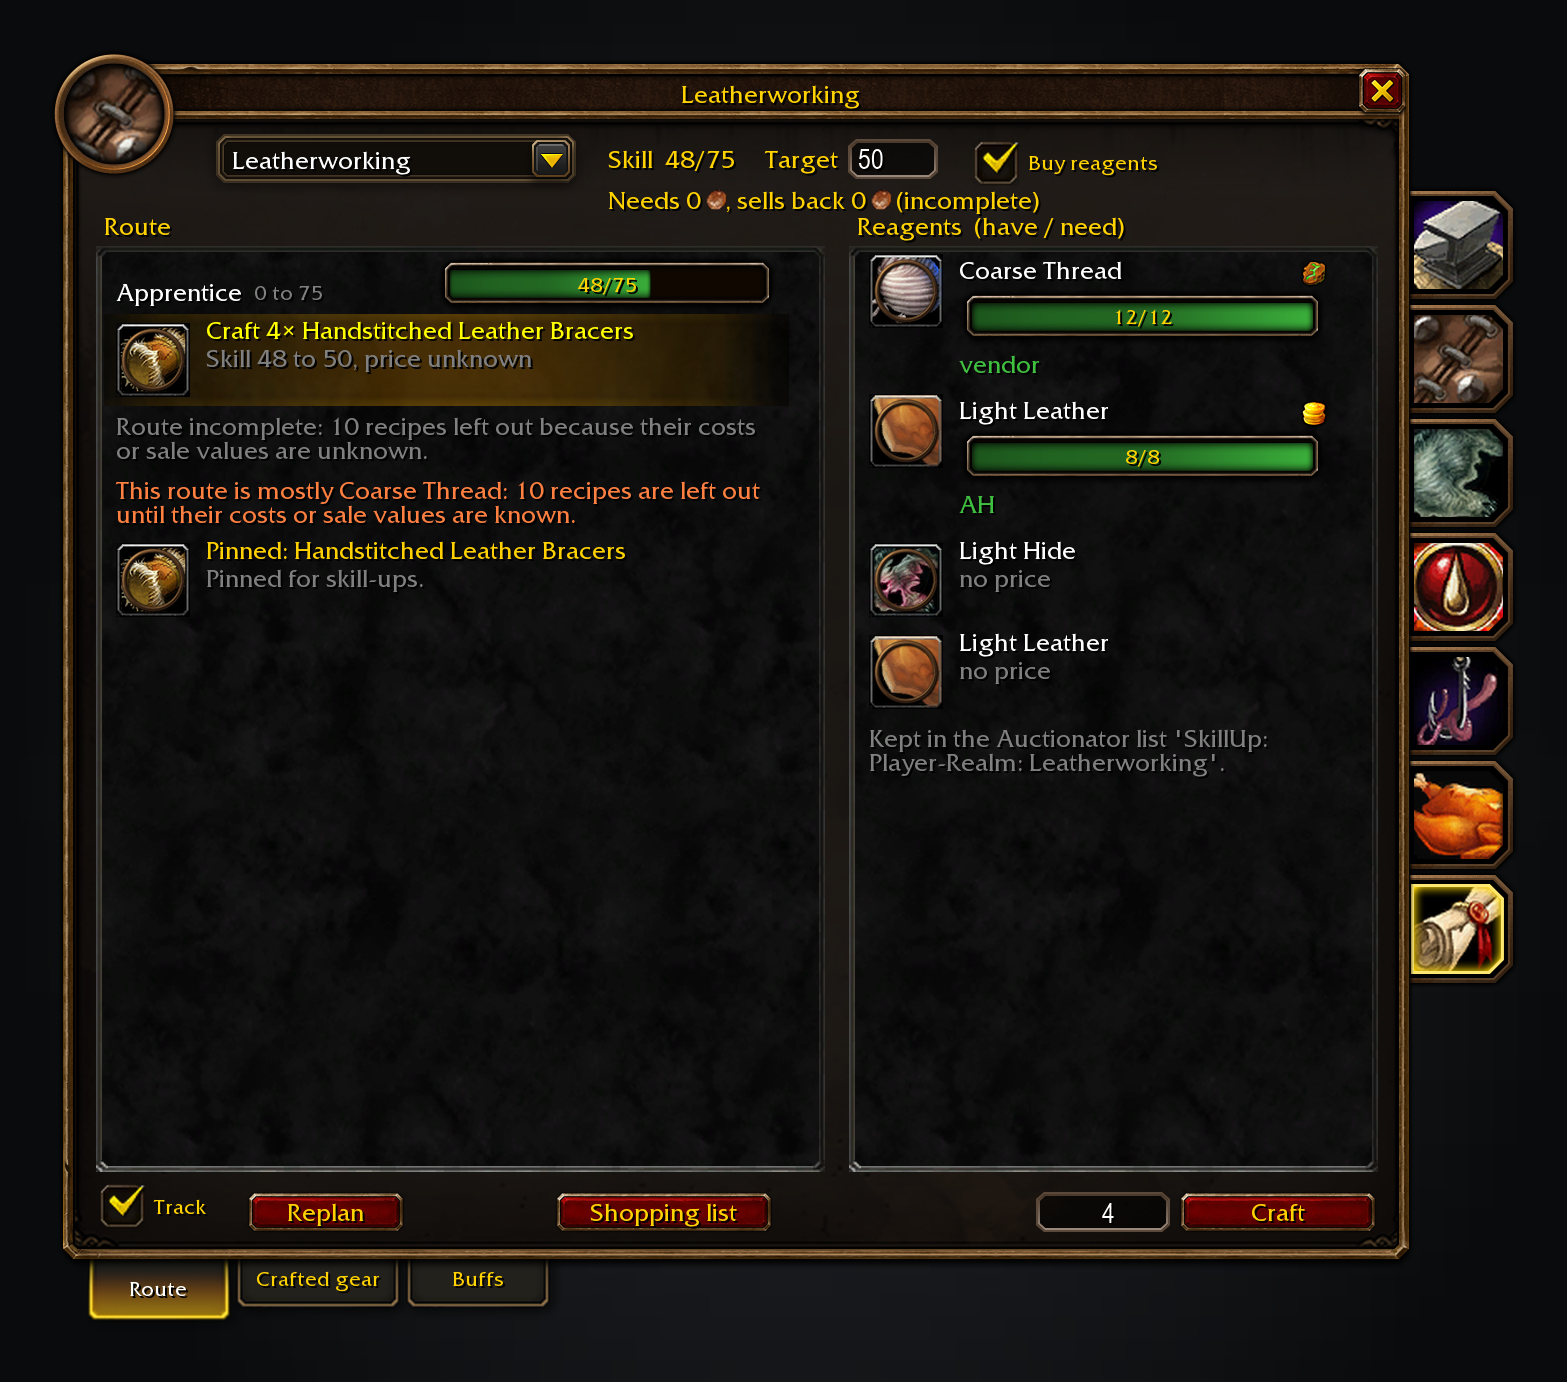
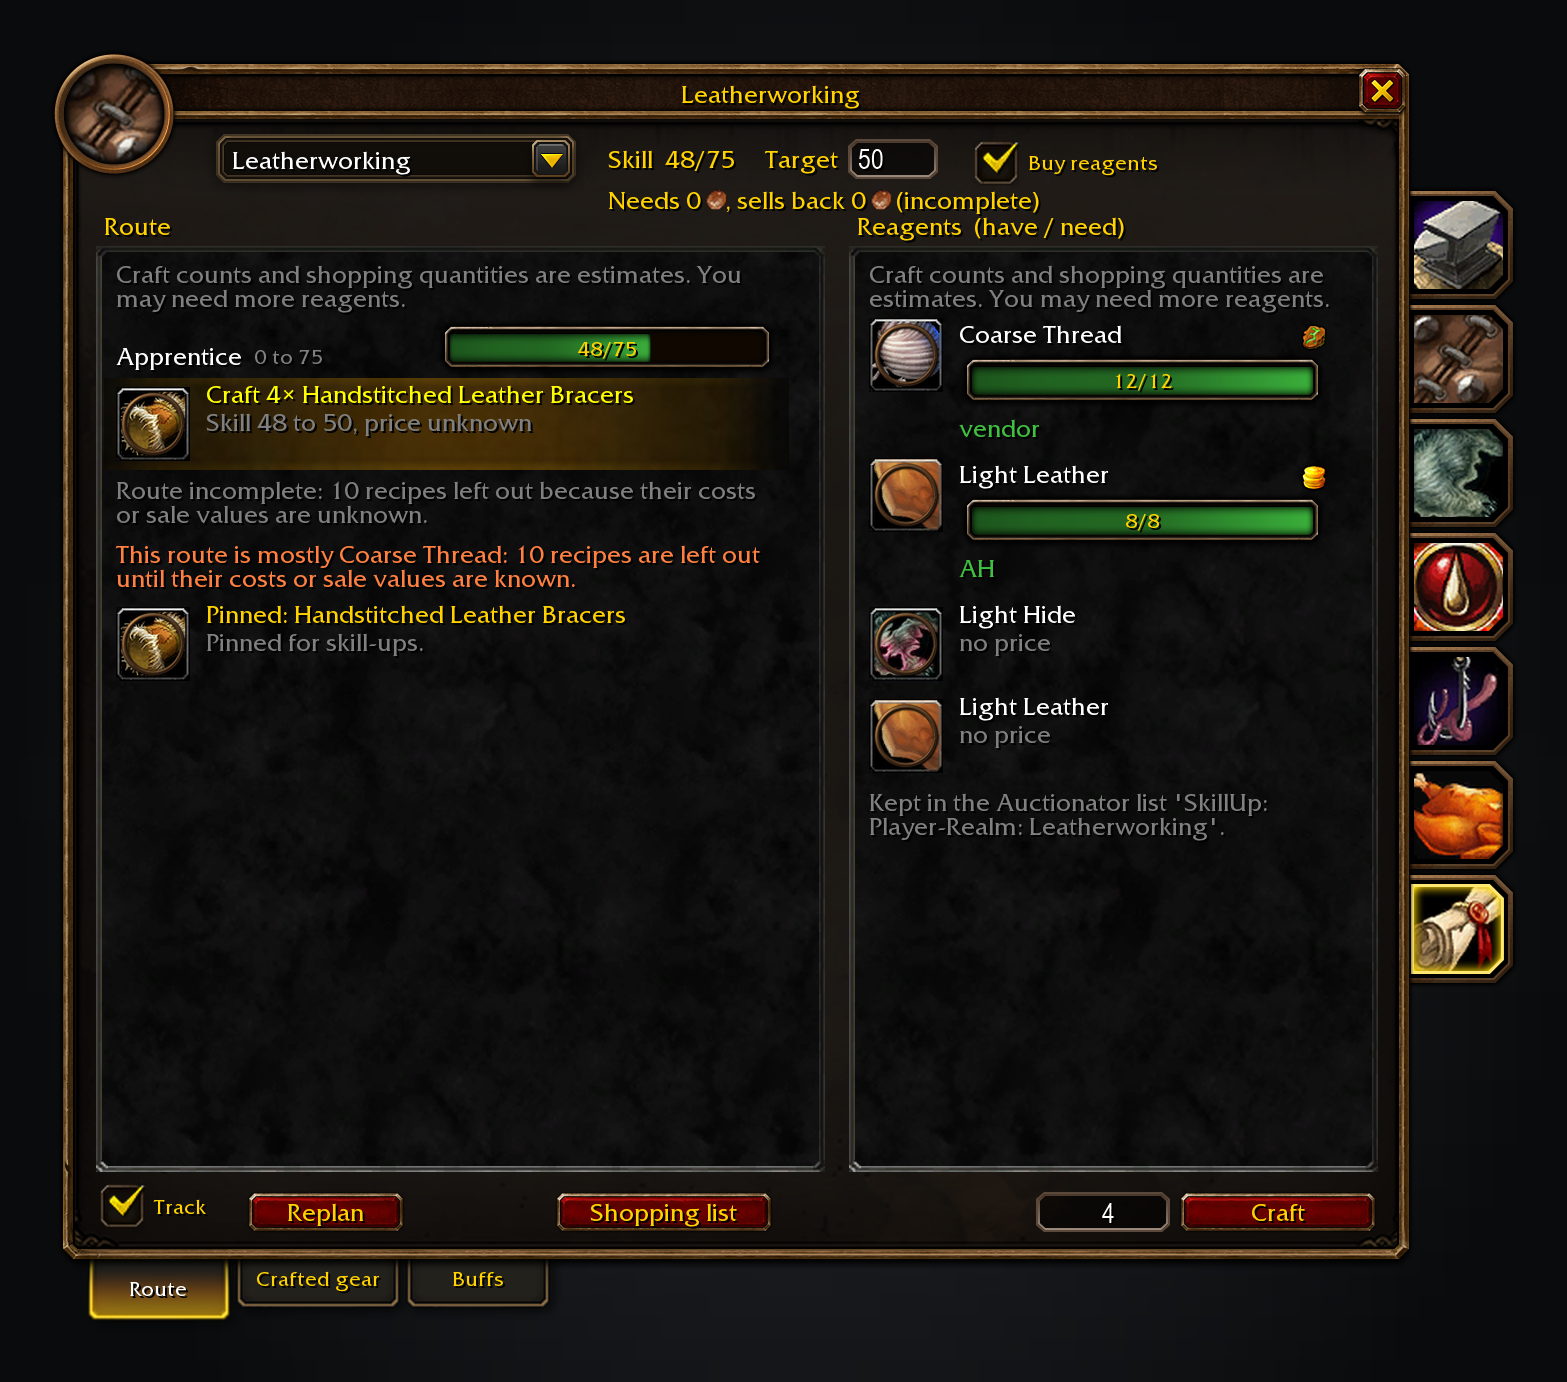
feat(supply): explain published shopping coverage and assumptions
Expose revision-owned supply summaries without advancing calculations.
Keep probabilities aligned with published quantities and preserve cancelled
status. Explain starting supplies and later purchases in shared UI copy.

Refs #563

Changed region(s): [[0.0613, 0.1867, 0.4901, 0.4978], [0.5514, 0.1867, 0.8577, 0.6223]]

diff --git a/docs/api.md b/docs/api.md
@@ -6,7 +6,7 @@ later, `ForeverCore.APIKit.Addons()` also lists the API.
 
 `version` changes only when a published member breaks: its arguments, the shape of its result or its meaning. An
 addition keeps `version` at 1 and raises `minor`, so check that a function exists before calling it. The current
-`minor` is 12; the history:
+`minor` is 13; the history:
 
 | minor | added |
 |---|---|
@@ -22,6 +22,7 @@ addition keeps `version` at 1 and raises `minor`, so check that a function exist
 | 10 | proved `unattained` supply status and free-unlimited geometric nonattainment parameters |
 | 11 | complete adaptive finite supply certificates, scope and selection proof |
 | 12 | alpha-free recipe evidence status and opt-in declared crafted snapshot provenance |
+| 13 | copied revision-owned shopping supply summary |
 
 ## Not ready
 
@@ -175,12 +176,33 @@ Each entry is:
 
 | field | |
 |---|---|
+| `supplySummary` | current conditional supply status, described below |
 | `profession` | the route's localized name |
 | `skillLine` | the skill line |
 | `target` | the base skill the route's plan buys to, the number the route tab's Target box shows |
 | `items` | the missing items, gathered first, then vendor, then auction house, then unknown, by item ID inside each |
 | `total` | copper for the priced missing items |
 | `unpriced` | how many missing items have no price |
+
+`supplySummary` is a fresh record with `status`: `unconfigured`, `calculating`, `complete`,
+`unknown`, `infeasible`, `unattained` or `cancelled`. When supplied, `alpha` is the explicit starting
+coverage constraint, including zero. `service` names the declared `fixed-batch` or `adaptive-finite`
+model, `inventoryScope` names its holdings scope, and `conditional = true` identifies supplied assumptions.
+Only a current complete result whose owner also publishes the certified `items` and `have` exposes `coverageLower/Upper` (C0, completion from starting supplies
+alone) and `successLower/Upper` (Ppi, completion with modeled later acquisitions). Reads never dispatch
+source readers or advance jobs. A completed job awaiting inventory publication remains `calculating`.
+A cancelled configured job remains `cancelled` until replacement work is queued. Displayed probability
+bounds round outward to two decimal places; these API bounds remain unchanged. Without configuration, quantities remain ordinary estimates, with no
+coverage target or probability assigned. Craft next continues to use the ordinary route estimate; it does
+not execute the conditional certificate.
+
+The production adaptive provider and execution remain separate work for #563: establish live source
+eligibility, verified stock units and complete typed payments, measured or explicit travel and farm
+inputs, and recipe gain laws; supply a fresh complete request through
+`RouteDemand.ConfigureAdaptiveSupply` on each input revision. A later executor must follow the
+selected state-dependent continuation, reconcile actual purchases and craft outcomes, and invalidate
+or replan when observations differ. This presentation adds neither a provider nor that executor,
+and assigns no default confidence constraint.
 
 An item is `{ itemID, need, have, missing, source, price, priceAge, cost, alt }`: `need` for the route, `have` in the
 certified scope, or bags and bank without a certificate, and `missing` the difference; `price` is copper each when one is known, and `cost` the price of the

diff --git a/CHANGELOG.md b/CHANGELOG.md
@@ -12,6 +12,8 @@ optional `### For addon authors` subsection after a version's player bullets.
 
 ## [Unreleased]
 
+- **Shopping estimates explain their scope.** Supply estimates distinguish the chance of finishing with starting supplies from the chance with later purchases. Their status and assumptions appear on the route, reagent list and copied shopping list. Craft counts and shopping quantities remain estimates.
+
 - **Route coverage keeps unreadable inventory unknown.** A quantity retained for display cannot stand in for a fresh inventory read (#738).
 
 - **Recipe details can appear on Shift without the route line.** Turn off route needs in the tooltip settings to keep the recipes that use an item. Existing tooltip choices stay as they were. Thanks to cotijelucie for the idea (#736).
